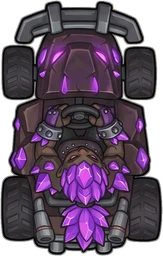
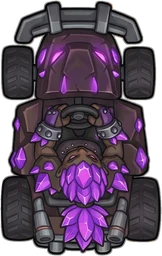
Kart Race: clear the background pockets left inside the new karts
Patches of the sheet's grid background that were shut in between wings,
nose and wheels are now see-through. The art test checks the empty karts'
format too.

Claude-Session: https://claude.ai/code/session_01MC4zuKXFaCxVKkwqiM8kVR

diff --git a/test/kart-racers.test.js b/test/kart-racers.test.js
@@ -59,10 +59,13 @@ test('art: kart pictures are 256 px tall with a see-through background; each has
   const { readFileSync, existsSync } = await import('node:fs');
   const file = (p) => new URL('../public' + p, import.meta.url);
   for (const r of R.RACERS) {
-    const b = readFileSync(file(r.sprite));
-    assert.equal(b.toString('ascii', 12, 16), 'VP8X', `${r.id}: extended WebP`);
-    assert.ok(b[20] & 0x10, `${r.id}: has alpha`);
-    assert.equal(b.readUIntLE(27, 3) + 1, 256, `${r.id}: 256 tall`);
-    assert.ok(existsSync(file(r.sprite.replace('/karts/', '/karts/empty/'))), `${r.id}: empty kart`);
+    const empty = r.sprite.replace('/karts/', '/karts/empty/');
+    assert.ok(existsSync(file(empty)), `${r.id}: empty kart`);
+    for (const p of [r.sprite, empty]) {
+      const b = readFileSync(file(p));
+      assert.equal(b.toString('ascii', 12, 16), 'VP8X', `${p}: extended WebP`);
+      assert.ok(b[20] & 0x10, `${p}: has alpha`);
+      assert.equal(b.readUIntLE(27, 3) + 1, 256, `${p}: 256 tall`);
+    }
   }
 });
